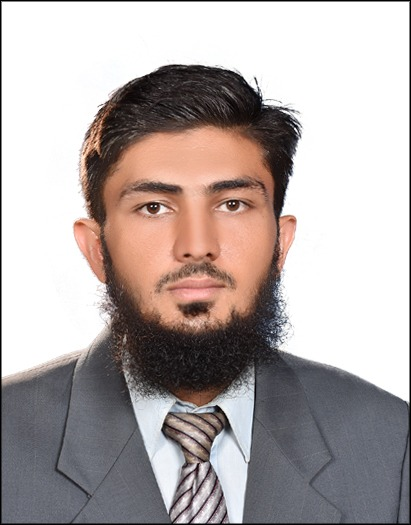
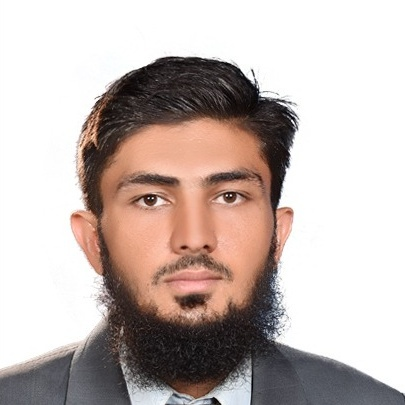
Update profile picture to new photo across all formats

diff --git a/index.html b/index.html
@@ -163,7 +163,7 @@
               <!-- Avatar with Ring -->
               <div class="relative w-36 h-36 mx-auto mb-4">
                 <div class="w-full h-full rounded-full p-[3px] bg-gradient-to-tr from-emerald-400 via-cyan-400 to-blue-500 shadow-xl shadow-cyan-500/20">
-                  <img src="profile.png" alt="Khizar Hayat" class="w-full h-full object-cover object-top rounded-full bg-slate-900">
+                  <img src="khizar-profile.jpg?v=2" alt="Khizar Hayat" class="w-full h-full object-cover rounded-full bg-slate-900">
                 </div>
                 <!-- OpenToWork Badge -->
                 <div class="absolute bottom-0 right-0 px-2 py-0.5 rounded-full bg-emerald-500 text-black text-[10px] font-bold tracking-tight uppercase shadow-lg border border-white/40">
@@ -736,7 +736,7 @@
           <div class="glass-panel rounded-2xl p-8 border border-slate-700/80 glow-card relative">
             <div class="flex items-center space-x-4 mb-6">
               <div class="relative w-16 h-16 rounded-2xl p-[2px] bg-gradient-to-tr from-cyan-500 to-indigo-600 shadow-lg shadow-cyan-500/20 flex-shrink-0">
-                <img src="profile.png" alt="Khizar Hayat" class="w-full h-full object-cover object-top rounded-[14px] bg-slate-900">
+                <img src="khizar-profile.jpg?v=2" alt="Khizar Hayat" class="w-full h-full object-cover rounded-[14px] bg-slate-900">
                 <span class="absolute -bottom-1 -right-1 w-4 h-4 rounded-full bg-emerald-500 border-2 border-slate-900 flex items-center justify-center text-[8px] text-black font-bold" title="Open to Work">✓</span>
               </div>
               <div>
